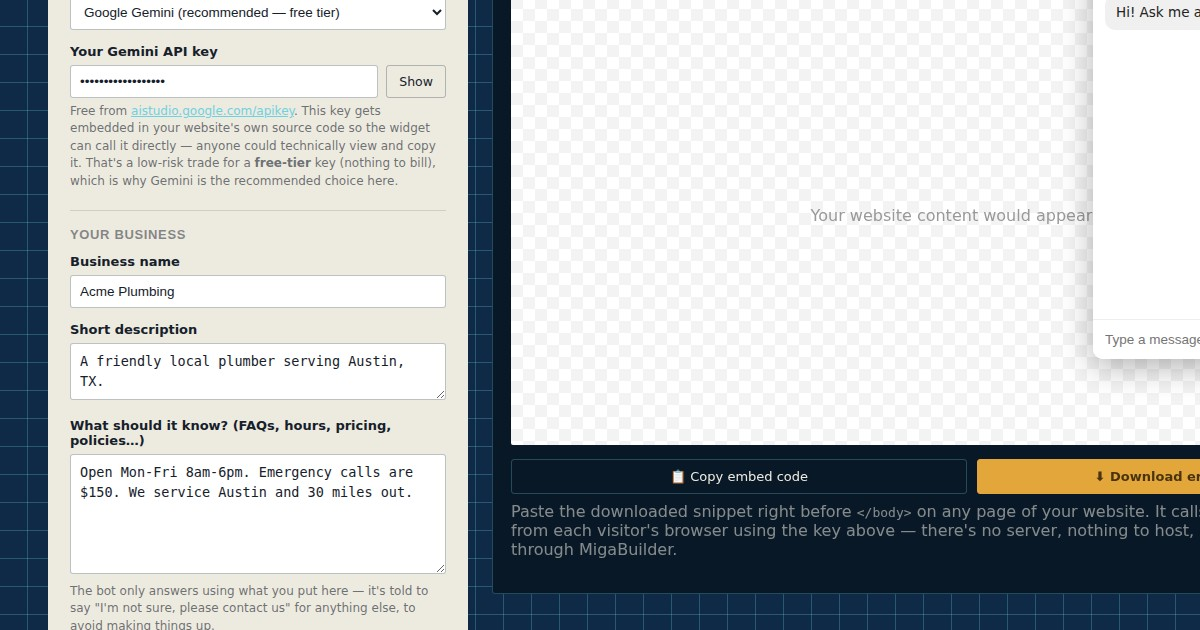
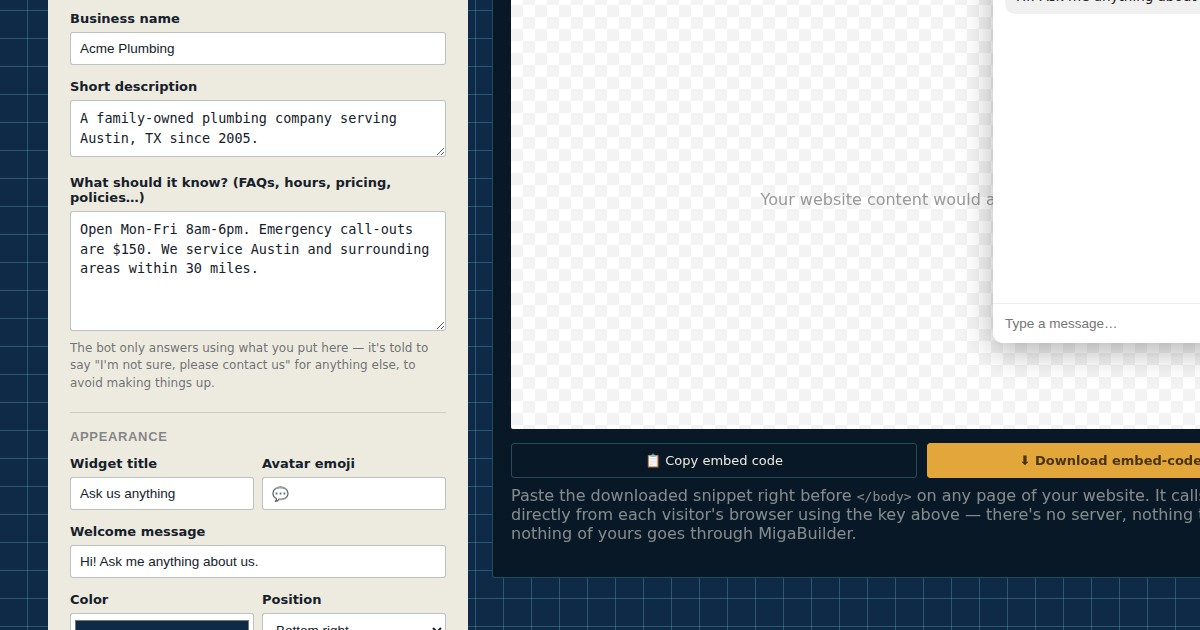
Add usage cap, fresher model, and mobile-responsive panel to Bot Forge
The widget Bot Forge generates embeds a live API key directly in a
customer's public website and calls it from every visitor's browser with no
limit — a single bad actor or bot could run unlimited requests against that
key. Also the shipped widget was hardcoded to the stale gemini-2.0-flash
model even though the rest of MigaBuilder has moved to gemini-3.5-flash, and
its chat panel was a fixed 320x420px box with no mobile handling.

- Added a "max messages per visitor per day" field (default 30) that gets
  compiled into the widget; the widget tracks a simple date+count in the
  visitor's own localStorage and stops calling the AI once the cap is hit for
  that day, showing a "contact us directly" message instead.
- Updated the widget's Gemini call to gemini-3.5-flash.
- Moved the chat panel's sizing into an injected <style> tag with a mobile
  media query so it goes full-screen under 480px instead of overflowing/
  feeling cramped.
- Added a 600-character guard on the message input (both the maxlength
  attribute and a defensive truncation before sending).

Tested with Playwright: built a widget with a daily limit of 2, verified the
generated embed HTML contains the new model string (and not the old one),
the mobile media query, the panel class, the input maxlength, and the
embedded limit; then drove the actual live widget in its preview iframe with
the Gemini call mocked — sent 3 messages and confirmed the first 2 got real
[…]

diff --git a/bot-forge.html b/bot-forge.html
@@ -213,6 +213,11 @@
         </select>
       </div>
     </div>
+    <div class="field">
+      <label for="dailyLimit">Max messages per visitor, per day</label>
+      <input type="text" id="dailyLimit" value="30">
+      <p class="hint">Protects your embedded API key from runaway cost/quota use — once a visitor hits this in one browser, the widget tells them to contact you directly instead of calling the AI again until the next day.</p>
+    </div>
 
     <button type="button" class="draft-btn" id="buildBtn">🔧 Build widget preview</button>
     <div class="error-box" id="errorBox"></div>
@@ -255,6 +260,7 @@
   const welcomeMsg = document.getElementById('welcomeMsg');
   const themeColor = document.getElementById('themeColor');
   const positionSelect = document.getElementById('position');
+  const dailyLimitInput = document.getElementById('dailyLimit');
   const buildBtn = document.getElementById('buildBtn');
   const errorBox = document.getElementById('errorBox');
   const statusBox = document.getElementById('statusBox');
@@ -316,7 +322,8 @@
     avatar: "${escapeJsString(cfg.avatar)}",
     welcome: "${escapeJsString(cfg.welcome)}",
     color: "${cfg.color}",
-    position: "${cfg.position}"
+    position: "${cfg.position}",
+    dailyLimit: ${cfg.dailyLimit}
   };
   var SYSTEM_PROMPT = "You are a helpful assistant for " + (CFG.bizName || "this business") + ". " +
     (CFG.bizDesc ? "About the business: " + CFG.bizDesc + " " : "") +
@@ -335,18 +342,22 @@
   var side = CFG.position === "left" ? "left:20px;" : "right:20px;";
   var root = el("div", { style: "position:fixed;bottom:20px;" + side + "z-index:999999;font-family:system-ui,sans-serif;" });
 
+  var styleTag = document.createElement("style");
+  styleTag.textContent =
+    ".mb-bf-panel{display:none;position:absolute;bottom:66px;" + (CFG.position === "left" ? "left:0;" : "right:0;") +
+    "width:320px;max-width:90vw;height:420px;background:#fff;border-radius:10px;box-shadow:0 8px 32px rgba(0,0,0,0.3);flex-direction:column;overflow:hidden;}" +
+    "@media (max-width:480px){.mb-bf-panel{position:fixed;top:0;left:0;right:0;bottom:0;width:100%;height:100%;max-width:100%;border-radius:0;}}";
+  document.head.appendChild(styleTag);
+
   var bubble = el("button", {
     style: "width:56px;height:56px;border-radius:50%;border:none;cursor:pointer;background:" + CFG.color + ";color:#fff;font-size:24px;box-shadow:0 4px 16px rgba(0,0,0,0.25);"
   }, [CFG.avatar]);
 
-  var panel = el("div", {
-    style: "display:none;position:absolute;bottom:66px;" + (CFG.position === "left" ? "left:0;" : "right:0;") +
-      "width:320px;max-width:90vw;height:420px;background:#fff;border-radius:10px;box-shadow:0 8px 32px rgba(0,0,0,0.3);flex-direction:column;overflow:hidden;"
-  });
+  var panel = el("div", { class: "mb-bf-panel" });
   var head = el("div", { style: "background:" + CFG.color + ";color:#fff;padding:14px 16px;font-weight:600;font-size:14px;" }, [CFG.title]);
   var messages = el("div", { style: "flex:1;overflow-y:auto;padding:12px;display:flex;flex-direction:column;gap:8px;font-size:13.5px;" });
   var inputRow = el("div", { style: "display:flex;border-top:1px solid #eee;" });
-  var input = el("input", { type: "text", placeholder: "Type a message…", style: "flex:1;border:none;padding:12px;font-size:13.5px;outline:none;" });
+  var input = el("input", { type: "text", placeholder: "Type a message…", maxlength: "600", style: "flex:1;border:none;padding:12px;font-size:13.5px;outline:none;" });
   var sendBtn = el("button", { style: "border:none;background:" + CFG.color + ";color:#fff;padding:0 16px;cursor:pointer;font-size:13.5px;" }, ["Send"]);
   inputRow.appendChild(input); inputRow.appendChild(sendBtn);
   panel.appendChild(head); panel.appendChild(messages); panel.appendChild(inputRow);
@@ -375,7 +386,7 @@
   }
 
   async function callGemini(userText) {
-    var url = "https://generativelanguage.googleapis.com/v1beta/models/gemini-2.0-flash:generateContent?key=" + encodeURIComponent(CFG.apiKey);
+    var url = "https://generativelanguage.googleapis.com/v1beta/models/gemini-3.5-flash:generateContent?key=" + encodeURIComponent(CFG.apiKey);
     var contents = history.concat([{ role: "user", parts: [{ text: userText }] }]);
     var res = await fetch(url, {
       method: "POST", headers: { "Content-Type": "application/json" },
@@ -418,11 +429,32 @@
     return stripFence(raw || "Sorry, I didn't catch that.");
   }
 
+  var USAGE_KEY = "migabuilder_bot_forge_usage";
+  function todayStr() { return new Date().toISOString().slice(0, 10); }
+  function getUsage() {
+    try {
+      var raw = JSON.parse(localStorage.getItem(USAGE_KEY) || "null");
+      if (raw && raw.date === todayStr()) return raw;
+    } catch (e) {}
+    return { date: todayStr(), count: 0 };
+  }
+  function bumpUsage() {
+    var usage = getUsage();
+    usage.count += 1;
+    try { localStorage.setItem(USAGE_KEY, JSON.stringify(usage)); } catch (e) {}
+    return usage.count;
+  }
+
   async function handleSend() {
-    var text = input.value.trim();
+    var text = input.value.trim().slice(0, 600);
     if (!text) return;
+    if (CFG.dailyLimit > 0 && getUsage().count >= CFG.dailyLimit) {
+      addMessage("You've reached today's message limit for this chat — please contact us directly and we'll help right away.", "bot");
+      return;
+    }
     input.value = "";
     addMessage(text, "user");
+    bumpUsage();
     var thinking = el("div", { style: "align-self:flex-start;background:#f0f0f0;color:#888;padding:8px 11px;border-radius:10px;font-size:13px;" }, ["…"]);
     messages.appendChild(thinking); messages.scrollTop = messages.scrollHeight;
     try {
@@ -459,7 +491,8 @@
       avatar: botAvatar.value.trim() || '💬',
       welcome: welcomeMsg.value.trim() || 'Hi! How can I help?',
       color: themeColor.value,
-      position: positionSelect.value
+      position: positionSelect.value,
+      dailyLimit: Math.max(0, parseInt(dailyLimitInput.value, 10) || 0)
     };
   }
 
